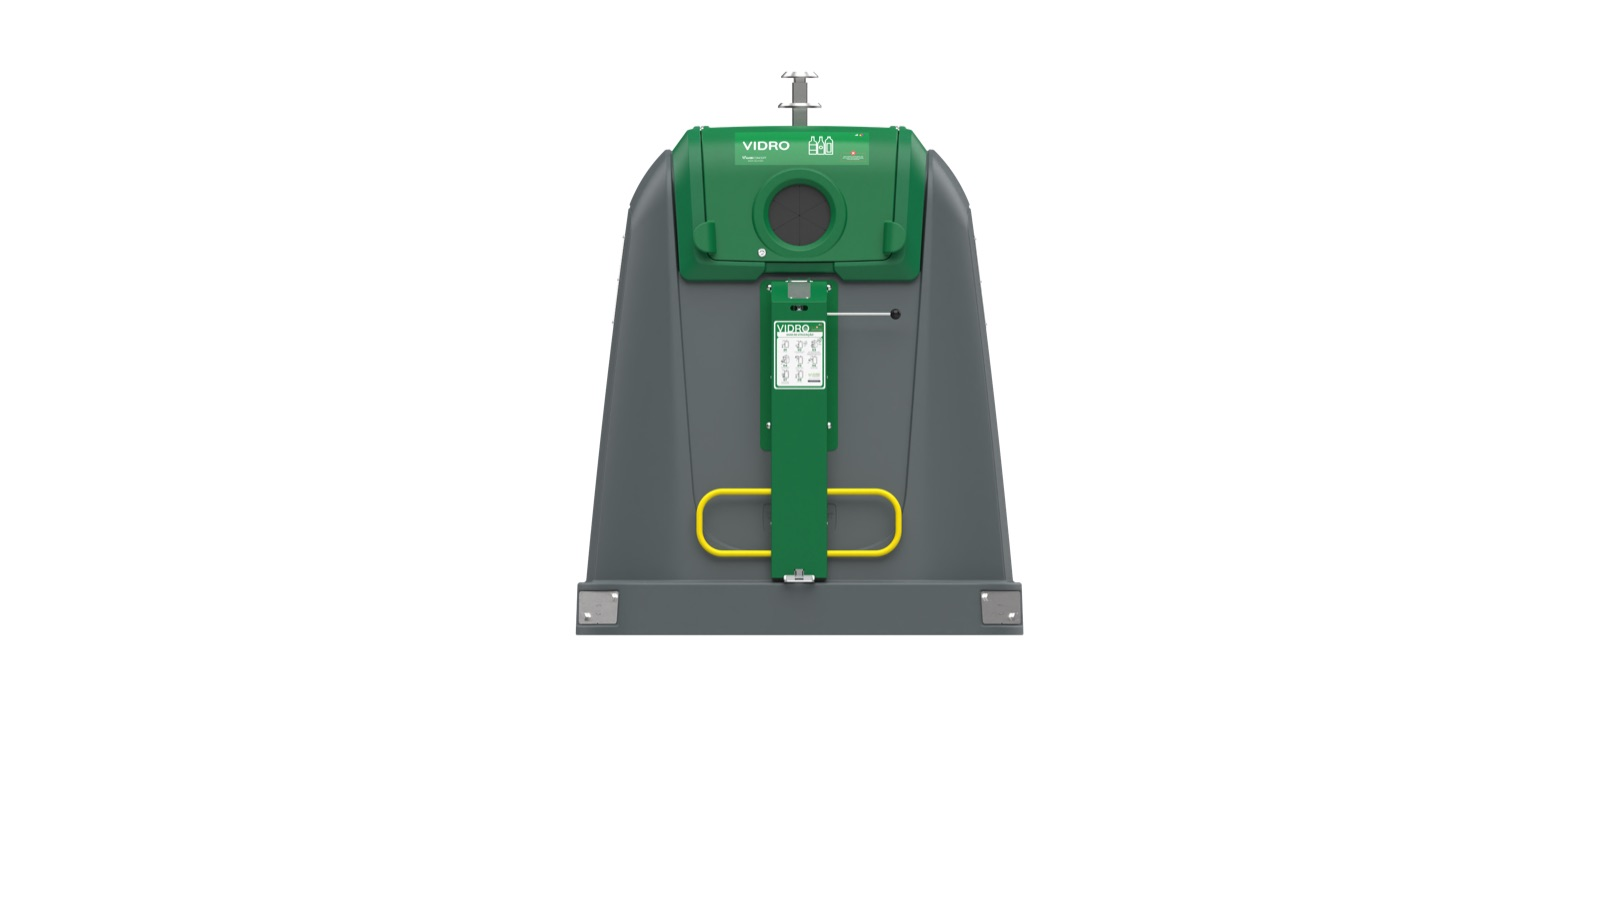
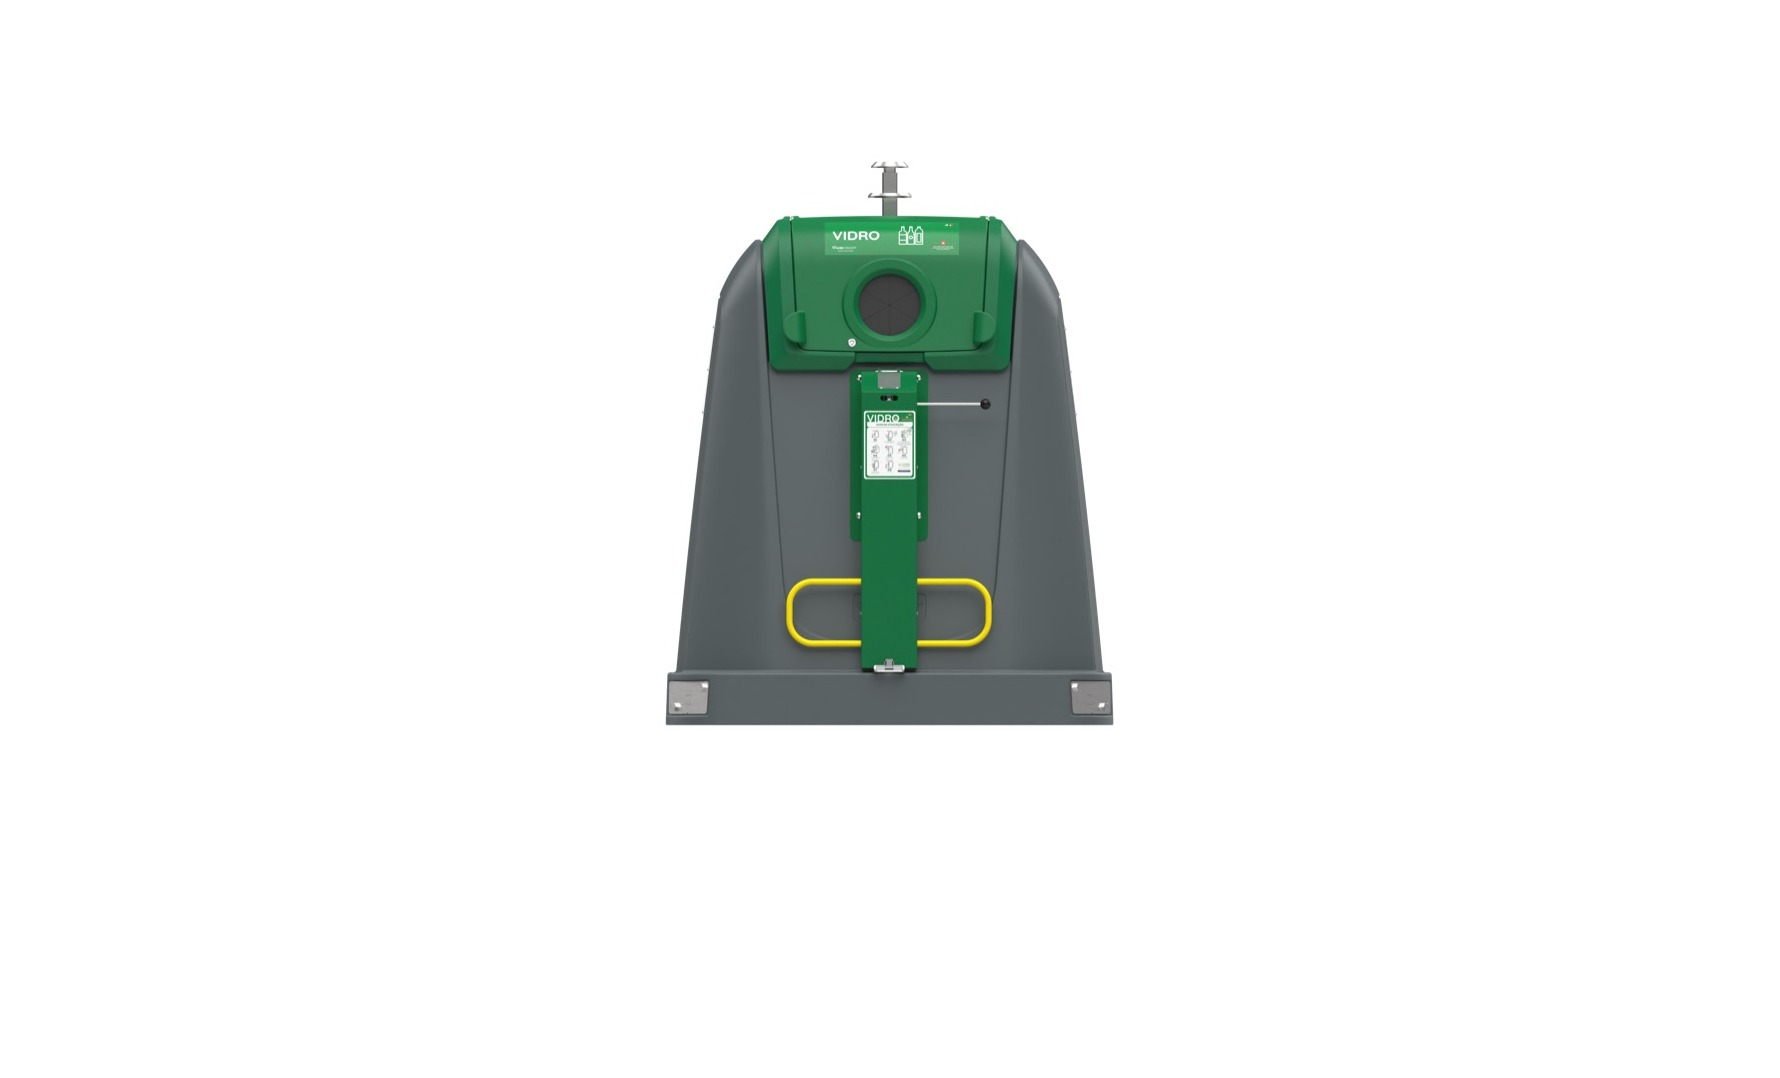
Centra renders na galeria e ajusta enquadramento das imagens
Aplica object-fit:contain aos renders (media-frame e marquee), adiciona
margem branca aos contentores fechados para alinhamento visual consistente
e remove duas imagens fora do padrao da sequencia da galeria.

Changed region(s): [[0.3438, 0.0935, 0.6562, 0.7171]]

diff --git a/index.html b/index.html
@@ -121,7 +121,8 @@ nav a.lnk.on{color:var(--green-bright);background:rgba(122,185,41,.10);font-weig
 .split{display:grid;grid-template-columns:1fr 1fr;gap:clamp(32px,6vw,84px);align-items:center;margin-top:64px}
 @media(max-width:900px){.split{grid-template-columns:1fr}}
 .media-frame{position:relative;border-radius:26px;overflow:hidden;border:1px solid var(--line);background:#fff;box-shadow:0 36px 70px -34px rgba(16,32,20,.35)}
-.media-frame video,.media-frame img{width:100%;height:100%;object-fit:cover}
+.media-frame video{width:100%;height:100%;object-fit:cover}
+.media-frame img{width:100%;height:100%;object-fit:contain;object-position:center}
 .media-frame .tag{position:absolute;top:16px;left:16px;background:rgba(13,20,23,.78);backdrop-filter:blur(8px);border:1px solid var(--line);color:#fff;font-size:11px;letter-spacing:.16em;text-transform:uppercase;font-weight:600;padding:7px 14px;border-radius:999px;display:flex;align-items:center;gap:8px}
 .media-frame .tag .rec{width:7px;height:7px;border-radius:50%;background:var(--green);animation:pulse 2s infinite}
 .feat{display:flex;gap:18px;padding:20px 0;border-bottom:1px solid var(--line)}
@@ -200,7 +201,7 @@ tbody td:not(:first-child){font-family:'JetBrains Mono',monospace;font-size:13px
 .mtrack{display:flex;gap:18px;width:max-content;animation:scrollx 48s linear infinite}
 .marquee:hover .mtrack{animation-play-state:paused}
 .mtrack .shot{width:300px;height:210px;border-radius:18px;overflow:hidden;background:#fff;border:1px solid var(--line);flex-shrink:0}
-.mtrack .shot img{width:100%;height:100%;object-fit:cover;transition:transform .4s}
+.mtrack .shot img{width:100%;height:100%;object-fit:contain;object-position:center;transition:transform .4s}
 .mtrack .shot:hover img{transform:scale(1.06)}
 @keyframes scrollx{from{transform:translateX(0)}to{transform:translateX(-50%)}}
 .mtrack.rev{animation:scrollx2 54s linear infinite}
@@ -649,7 +650,7 @@ footer b i{color:var(--green);font-style:normal}
 
 <script>
 // gallery images
-const shots=[175,176,177,178,179,180,181,182,190,191,192,193,194,195,196,197,198,199,200,201,202,204,205,206,207,208,209,210,211,212,213,214,244,245,251,252,253,254,255,256,257,258,261,262,263,264,313,314,315,318,319,322];
+const shots=[175,176,177,178,179,180,181,182,190,191,192,193,194,195,196,197,198,199,200,201,202,205,206,207,208,209,210,211,212,213,214,244,245,252,253,254,255,256,257,258,261,262,263,264,313,314,315,318,319,322];
 function fill(el,list){
   const make=n=>{const d=document.createElement('div');d.className='shot';d.innerHTML=`<img src="assets/web-${n}.jpg" alt="AMBI 2.7 — vista ${n}" loading="lazy">`;return d};
   list.forEach(n=>el.appendChild(make(n)));
